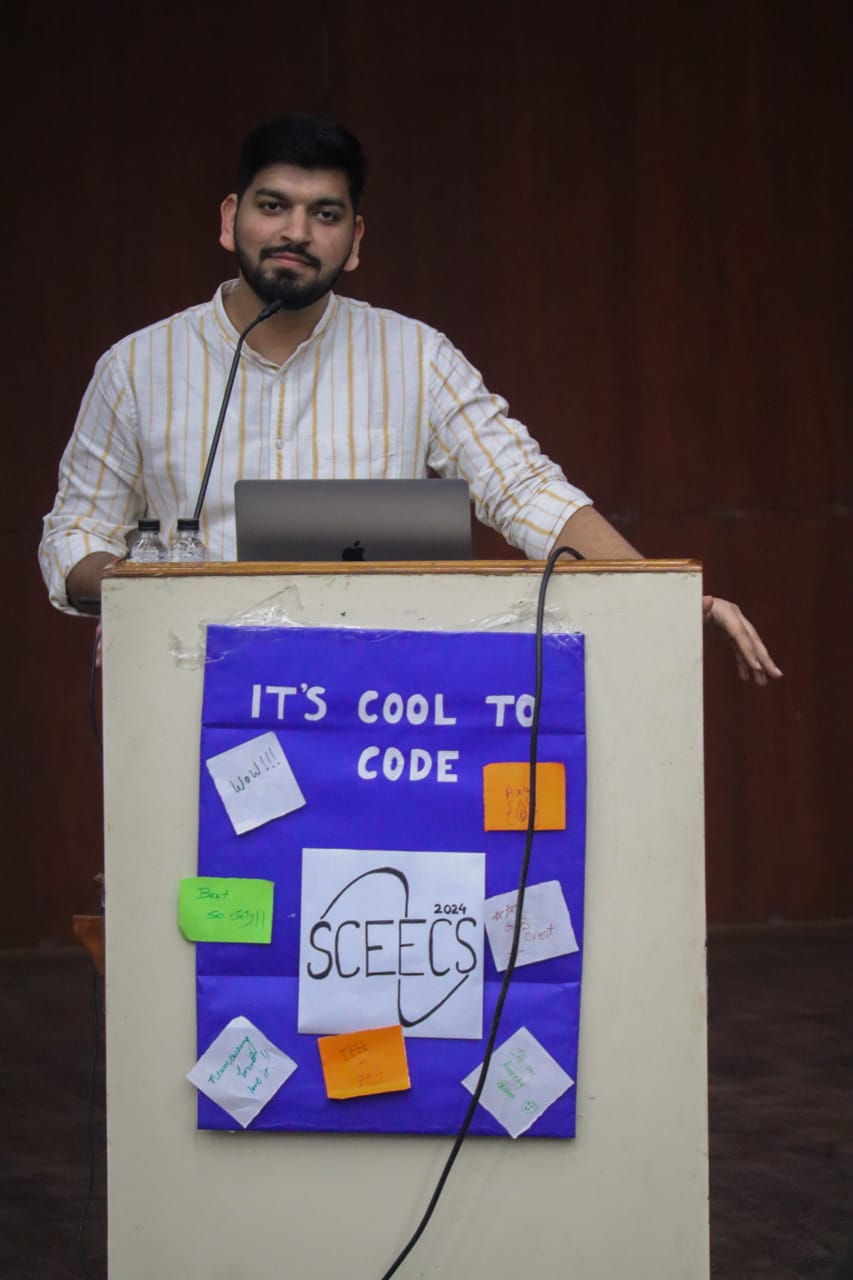
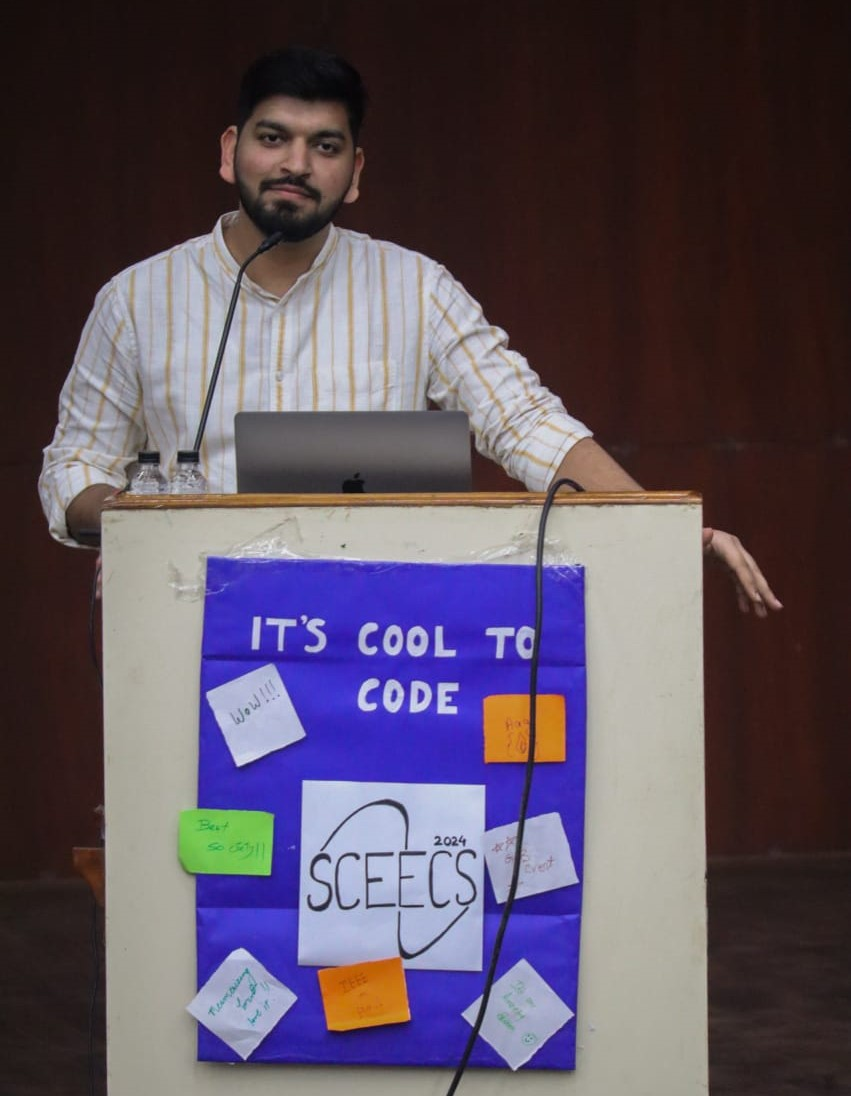
update

diff --git a/Samwaad.html b/Samwaad.html
@@ -284,16 +284,15 @@
             <div class="auto-container">
                 <div class="image-box">
                     <figure class="image wow fadeIn">
-                        <a href="images/Gallery/sw14.jpg" class="lightbox-image"><img src="images/Gallery/sw14.jpg" alt=""></a>
+                        <a href="images/Gallery/DSC01022.JPG" class="lightbox-image"><img src="images/Gallery/DSC01022.JPG" alt=""></a>
                     </figure>
                 </div>
                 <h2>SAMWAD</h2>
-                <p> Commemorating the role of women in the fields of sciences, technology, engineering and mathematics and elevating their contribution in these domains by catering to their needs, providing them with opportunities and felicitating the meritorious,
-                    IEEE celebrates the eternal legacy of the women’s role in engineering by organizingan event called WIE. The paramount aim of WIE is exalting the role of women in engineering.</p>
+                <p>Commemorating the role of women in the fields of sciences, technology, engineering and mathematics (STEM), IEEE celebrates the eternal legacy of the women’s role in engineering by organising an event called Samwad'23, a WIE (Women in Engineering) initiative. Our event aims to foster discussions, share experiences, and provide guidance to young women pursuing engineering careers.</p>
 
                 <div class="row two-column">
                     <div class="column col-lg-6 col-md-12 order-2">
-                        <figure class="image"><img src="images/Gallery/sw5m.jpg" alt=""></figure>
+                        <figure class="image"><img src="images/Gallery/DSC00845.JPG" alt=""></figure>
                     </div>
                     <div class="column col-lg-6 col-md-12">
                         <h4></h4>
@@ -305,10 +304,10 @@
                     </div>
                 </div>
 
-                <p style="padding-bottom: 15px;"> IEEE MSB every year orchestrates an event “SAMWAD“ under WIE, to realize the indomitable spirit of women and to praise and promote their significant contribution.</p>
+                <p style="padding-bottom: 15px;">SAMWAD, an engaging and vibrant space that goes beyond the ordinary, where we joyfully acknowledge the accomplishments of women in technology, takes center stage in actively nurturing a culture that propels women in engineering (WIE). IEEE-MSB, the central India's largest technical professional organization, is dedicated to the advancement of technology for the betterment and to praise and promote the significant contribution of women. 
+                </p>
 
-                <p style="padding-bottom: 15px;">IEEE celebrates the eternal legacy of the women’s role in engineering by organizing an event called WIE(Women in Engineering). The paramount aim of WIE is exalting the role of women in engineering. IEEE MSB every year orchestrates an event
-                    “SAMWAD“ under WIE, to realize the indomitable spirit of women alongside praise & promotion of their significant contribution to the society. </p>
+                <p style="padding-bottom: 15px;">SAMWAD is like a dynamic collage, a gathering of young tech enthusiasts fervently exchanging ideas, especially focusing on solutions to empower women. It's more than just an event—it's where professionals share their invaluable experiences and dreams, coming together to shape the rising generation.</p>
             </div>
 
             <br>
@@ -557,6 +556,7 @@
                     </div>
 
                 </div>
+                
 
 
 
@@ -737,6 +737,7 @@
                     </div>
 
                 </div>
+                
             </div>
 
         </div>

diff --git a/Sceecs.html b/Sceecs.html
@@ -348,10 +348,10 @@
                     </ol>
                     <div class="carousel-inner">
                         <div class="carousel-item active">
-                            <img src="images/Gallery/sceecs_1.jpg" class="d-block" alt="...">
+                            <img src="images/Gallery/sceecs24.jpg" class="d-block" alt="...">
                         </div>
                         <div class="carousel-item">
-                            <img src="images/Gallery/sceecs_2.jpg" class="d-block" alt="...">
+                            <img src="images/Gallery/sceecs_1.jpg" class="d-block" alt="...">
                         </div>
                         <div class="carousel-item">
                             <img src="images/Gallery/sceecs_3.jpg" class="d-block" alt="...">
@@ -386,7 +386,7 @@
                 <p>SCEECS is organised annually by IEEE-MSB with an aim of keeping alive the blazing inferno of
                     curiosity in the ignited young minds of our nation. This event not only instil the importance of
                     research but also encourages people to pursue
-                    the science and technology field. SCCEECS has witnessed a multitude of prominent speakers including
+                    the science and technology field. SCCEECS has witnessed a multitude of prominent speakers including Sir Love Babbar (Founder of CodeHelp), Sir Sanjeev Somsundaram (a Director,Talent Acquisition at Google), 
                     Sir David Grinspoon (a NASA Scientist), Sir H.C. Verma, Sir David Meltzer and many more</p>
 
                 <div class="row two-column">
@@ -628,7 +628,7 @@
                     <!-- Gallery Block -->
                     <div class="gallery-block col-lg-4 col-md-4 col-sm-12">
                         <div class="image-box">
-                            <figure class="image"><img src="images/Gallery/sceecs_2.jpg" alt=""></figure>
+                            <figure class="image"><img src="images/Gallery/sc2.jpg" alt=""></figure>
 
                         </div>
                     </div>
@@ -666,7 +666,7 @@
 
                 <span class="sub-title">Let us enlighten you</span>
 
-                <h2>Speakers at SCEECS '22</h2>
+                <h2> Past Speakers of SCEECS</h2>
 
                 <span class="divider"></span>
 
@@ -677,6 +677,31 @@
             <div class="row">
 
                 <!-- Speaker block -->
+                <div class="speaker-block col-lg-3 col-md-6 col-sm-12 wow fadeInUp">
+
+                    <div class="inner-box">
+
+                        <div class="image-box">
+
+                            <figure class="image">
+                                <span><img src="images/guests/lakshya_kumar.jpeg" alt=""></span>
+                            </figure>
+
+
+
+                        </div>
+
+                        <div class="info-box">
+
+                            <h4 class="name"><span>Lakshay Kumar</span></h4>
+
+                            <span class="designation">Co-Founder of CodeHelp</span>
+
+                        </div>
+
+                    </div>
+
+                </div>
 
                 <div class="speaker-block col-lg-3 col-md-6 col-sm-12 wow fadeInUp">
 

diff --git a/index.html b/index.html
@@ -646,16 +646,16 @@
 
                         <div class="about-image-wrapper">
 
-                            <figure class="image-3 wow zoomIn" data-wow-delay="900ms"><img src="images/main1.png" alt="" />
+                            <figure class="image-3 wow zoomIn" data-wow-delay="900ms"><img src="images/main1.jpg" alt="" />
                             </figure>
 
-                            <figure class="image-2 wow zoomIn" data-wow-delay="600ms"><img src="images/main2.png" alt="" />
+                            <figure class="image-2 wow zoomIn" data-wow-delay="600ms"><img src="images/Gallery/s10.jpg" alt="" width="250" height="250" />
                             </figure>
 
                             <figure class="image-1 wow zoomIn" data-wow-delay="300ms"><img
                                     src="images/resource/vector.png" alt="" /></figure>
 
-                            <a href="https://www.youtube.com/watch?v=MuGOWwC-kKI"
+                            <a href="https://youtu.be/pU-WNTJoCDU"
                                 class="lightbox-image play-btn wow zoomIn" data-wow-delay="1200ms"><span
                                     class="icon fa fa-play"></span></a>
 
@@ -1247,6 +1247,27 @@
                                     data-wow-delay="1500ms">
                                     <figure class="image-box">
                                         <span><img src="images/sponsors/technav_banner.png" alt="" /></span>
+                                    </figure>
+
+                                </div>
+                                <div class="client-block col-lg-4 col-md-6 col-sm-12 wow fadeInRight"
+                                    data-wow-delay="1500ms">
+                                    <figure class="image-box">
+                                        <span><img src="images/sponsors/guvi-logo.png" alt="" /></span>
+                                    </figure>
+
+                                </div>
+                                <div class="client-block col-lg-4 col-md-6 col-sm-12 wow fadeInRight"
+                                    data-wow-delay="1500ms">
+                                    <figure class="image-box">
+                                        <span><img src="images/sponsors/talent_battle_logo.png" alt="" width="100" height="100" /></span>
+                                    </figure>
+
+                                </div>
+                                <div class="client-block col-lg-4 col-md-6 col-sm-12 wow fadeInRight"
+                                    data-wow-delay="1500ms">
+                                    <figure class="image-box">
+                                        <span><img src="images/sponsors/interview_cake.png" alt="" /></span>
                                     </figure>
 
                                 </div>

diff --git a/team.html b/team.html
@@ -754,6 +754,21 @@
                             </div>
                         </div>
                     </div>
+                    <div class="speaker-block col-lg-3 col-md-6 col-sm-12 wow fadeInUp" data-wow-delay="900ms">
+                        <div class="inner-box">
+                            <div class=" image-box">
+                                <figure class="image image-2">
+                                    <span><img src="images/team_prefinal_2023/Prachi Agarwal.jpg" alt=""></span>
+                                </figure>
+                            </div>
+                            <div class="info-box">
+                                <h4 class="name"><span>Prachi Agrawal</span></h4>
+                                <span class="designation">General Affairs Secretary</span>
+                            </div>
+                        </div>
+                    </div>
+
+
 
                     <!-- PRE-FINAL YEAR block -->
                     <div class="speaker-block col-lg-3 col-md-6 col-sm-12 wow fadeInUp" data-wow-delay="900ms">
@@ -818,11 +833,11 @@
                         <div class="inner-box">
                             <div class=" image-box">
                                 <figure class="image image-2">
-                                    <span><img src="images/team_prefinal_2023/Naincy.jpg" alt=""></span>
+                                    <span><img src="images/team_prefinal_2023/naincy p.jpg" alt=""></span>
                                 </figure>
                             </div>
                             <div class="info-box">
-                                <h4 class="name"><span>Nancy Priya</span></h4>
+                                <h4 class="name"><span>Naincy Priya</span></h4>
                                 <span class="designation">Design Secretary</span>
                             </div>
                         </div>

diff --git a/about.html b/about.html
@@ -308,13 +308,13 @@
                     <!-- Video Box -->
                     <div class="video-box-one order-2">
                         <figure class="image"><img src="images/resource/image-1.jpg" alt=""></figure>
-                        <a href="https://www.youtube.com/watch?v=EsTITEDn27Q" class="lightbox-image play-btn wow fadeIn" data-wow-delay="500ms"><i class="icon flaticon-play-button-1"></i></a>
+                        <a href="https://youtu.be/pU-WNTJoCDU" class="lightbox-image play-btn wow fadeIn" data-wow-delay="500ms"><i class="icon flaticon-play-button-1"></i></a>
                     </div>
 
                     <!-- Info Box -->
                     <div class="info-box-one">
                         <div class="inner-box">
-                            <h4>Mind Blowing Was This Year's SAMWAD '22</h4>
+                            <h4>Mind Blowing Was This Year's SAMWAD '23</h4>
                             <p>SAMWAD produces bright young minds that keep the scintillating flame glimmering by instilling the importance of education. </p>
                             <a href="Samwaad.html" class="theme-btn btn-style-two"><span class="btn-title">Learn More</span></a>
                         </div>
